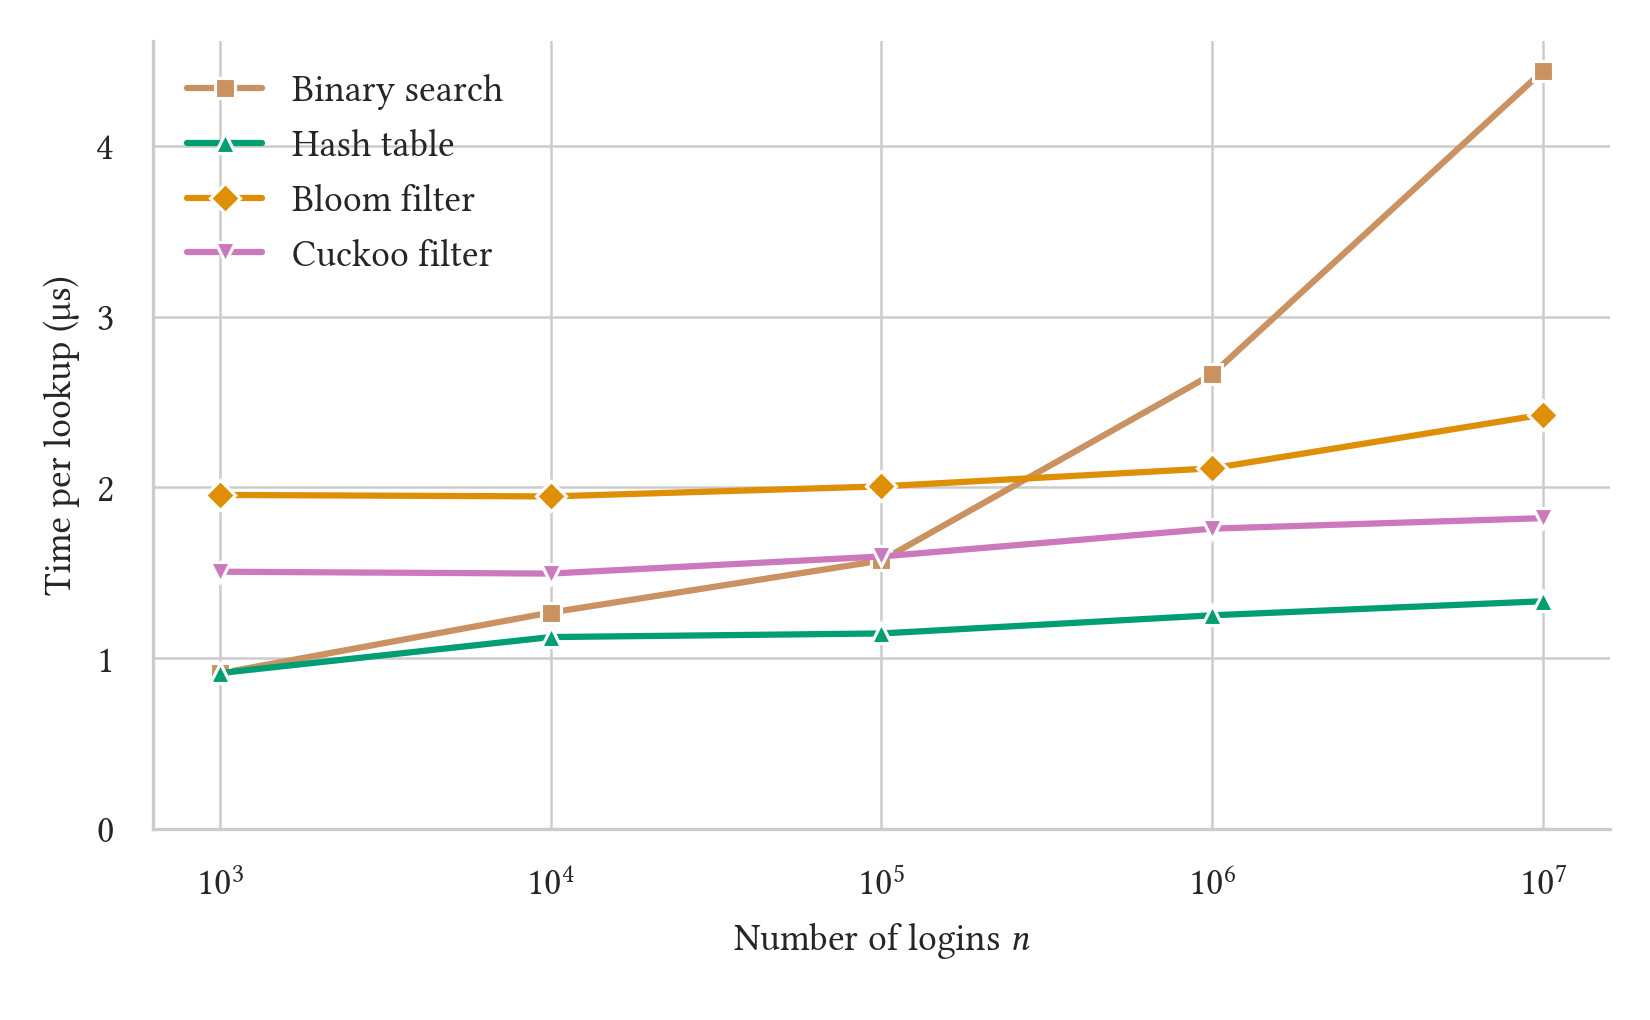
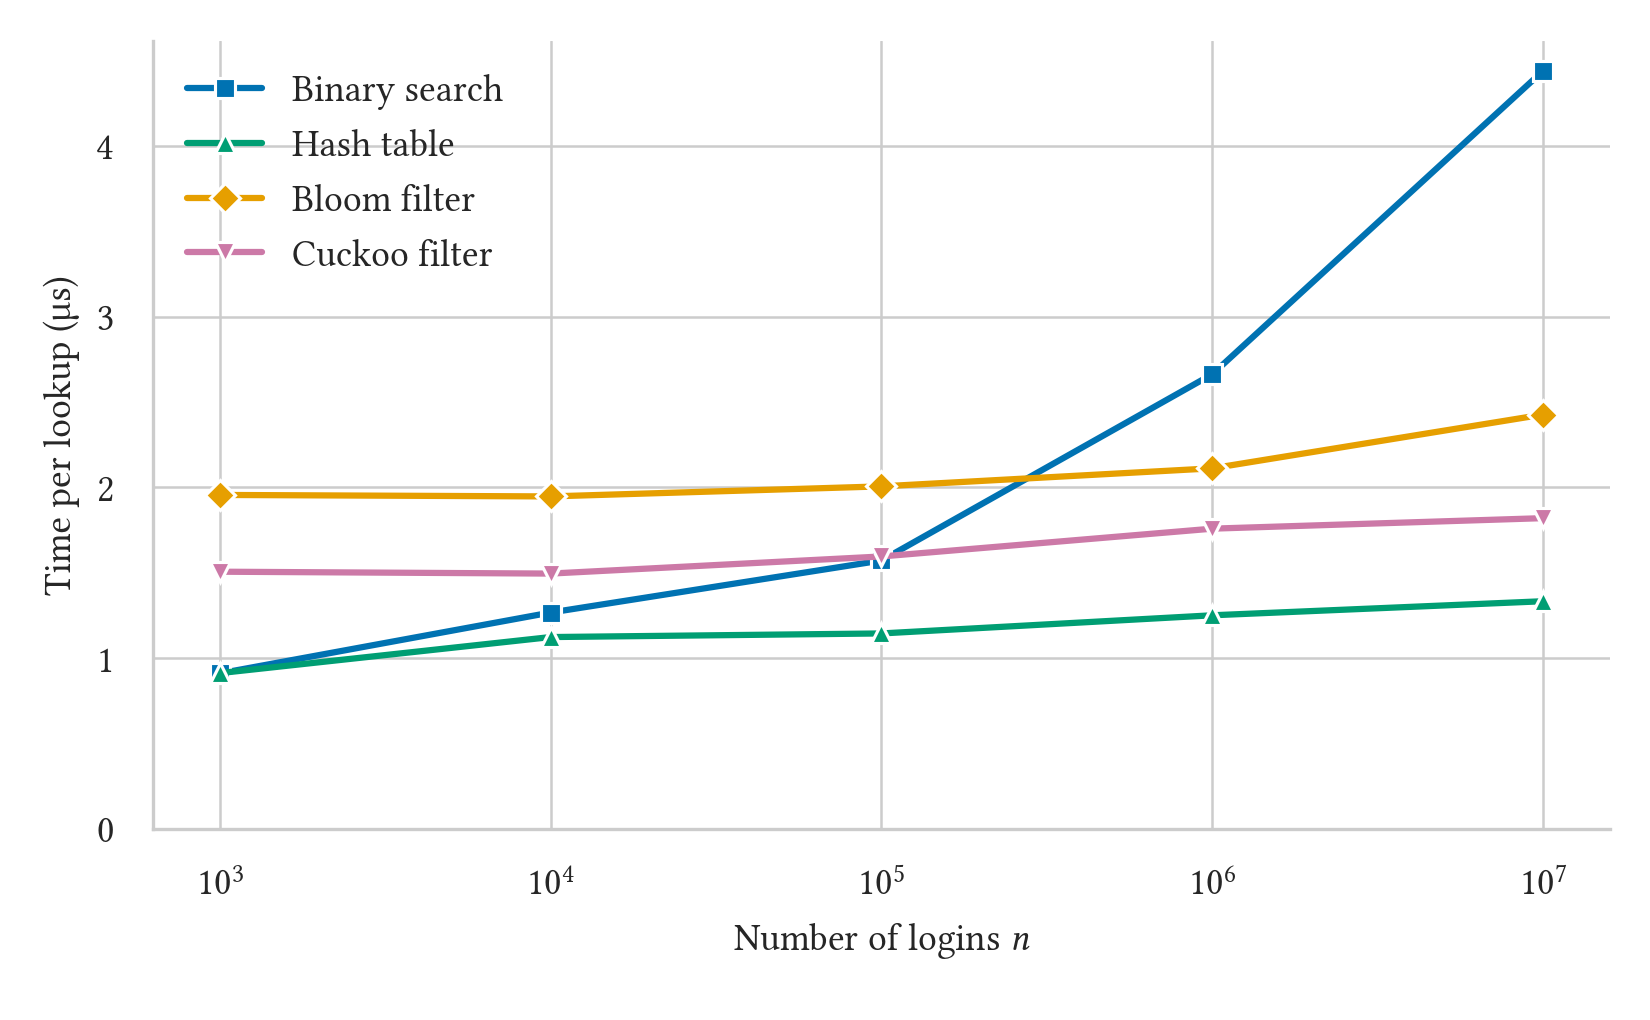
Use distinct Okabe-Ito colors in plots

diff --git a/benchmarks/plot_results.py b/benchmarks/plot_results.py
@@ -20,10 +20,15 @@ import seaborn as sns  # noqa: E402
 ROOT = Path(__file__).resolve().parent.parent
 
 ORDER = ["Linear search", "Binary search", "Hash table", "Bloom filter", "Cuckoo filter"]
-# Colorblind-safe palette; each structure keeps the same color and marker in every plot.
-# Picks blue, brown, green, orange, purple so no two colors look alike.
-_COLORS = sns.color_palette("colorblind")
-PALETTE = dict(zip(ORDER, [_COLORS[i] for i in (0, 5, 2, 1, 4)]))
+# Okabe-Ito colorblind-safe colors, chosen so no two lines look alike.
+# Each structure keeps the same color and marker in every plot.
+PALETTE = {
+    "Linear search": "#3b3b3b",  # dark gray (baseline)
+    "Binary search": "#0072b2",  # blue
+    "Hash table": "#009e73",     # green
+    "Bloom filter": "#e69f00",   # orange
+    "Cuckoo filter": "#cc79a7",  # purple
+}
 MARKERS = dict(zip(ORDER, ["o", "s", "^", "D", "v"]))
 
 # Sized for one column of the ACM acmsmall template (text width ~5.5 in),
